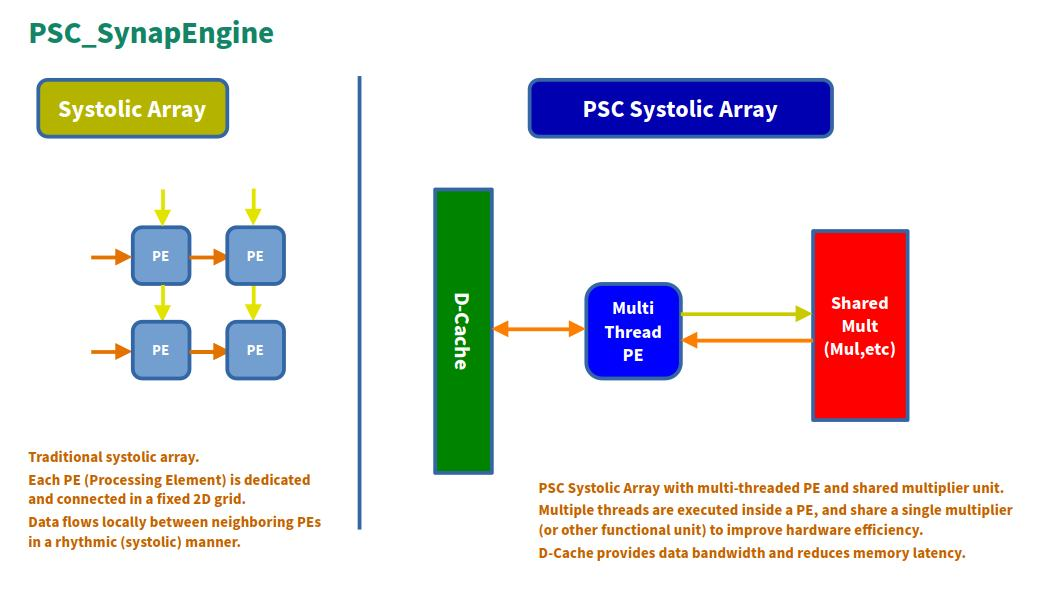
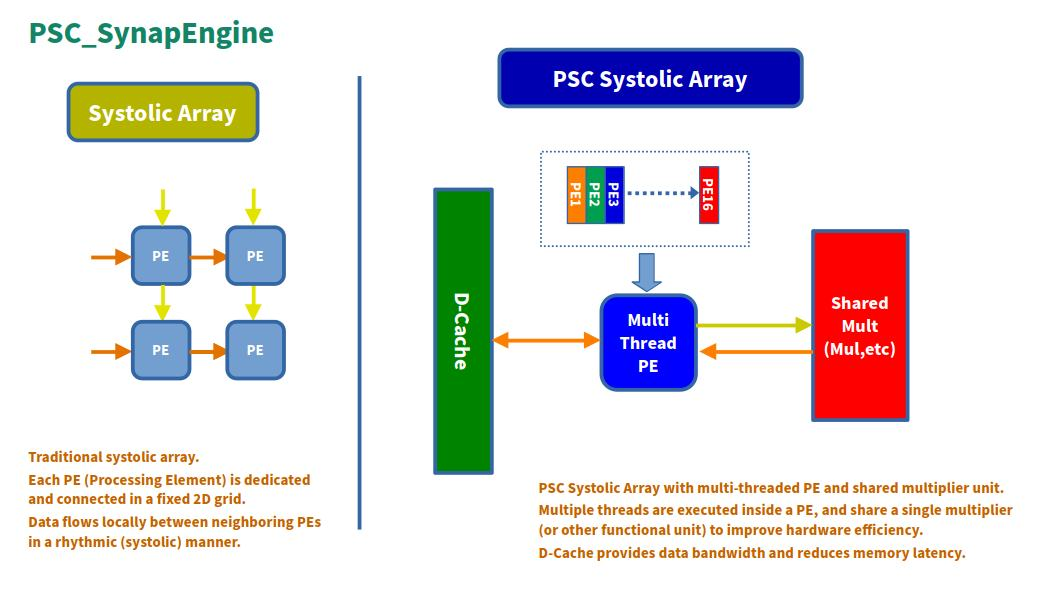
image modify README modify

diff --git a/README.md b/README.md
@@ -4,7 +4,7 @@
   </a>
 </p>
 
-# PSC-ONE
+# PSC-ONE SoC
 
 An open-source full-stack RISC-V SoC platform for FPGA-based edge computing and AI acceleration.  
 PSC-ONE integrates a custom CPU, memory subsystem, peripherals,
@@ -45,6 +45,15 @@ PSC-ONE is not just a CPU core, but a complete experimental SoC platform for res
 
 ---
 
+## PSC-ONE SoC Architecture
+
+![PSC-SOC Block Diagram](docs/images/PSC_ONE_SoC_Block.jpg)
+
+This section presents the overall PSC-ONE SoC architecture, including the
+PSC_RV32ISP CPU, memory subsystem, peripherals, PSC-OS, and PSC-ONE AI.
+
+---
+
 ## Repository Structure
 
 - `hardware/` - FPGA RTL design, including the CPU core, memory subsystem, and peripherals
@@ -75,7 +84,9 @@ The software side of PSC-ONE currently includes:
 
 ---
 
-## PSC_RV32ISP (CPU Architecture)
+# CPU (PSC_RV32ISP)
+
+## CPU Architecture
 
 This diagram presents the top-level architecture of the PSC system.  
 It shows how the PSC_RV32ISP CPU core is integrated with memory and peripheral components, including UART, SDRAM, and the SD card interface.  
@@ -92,7 +103,7 @@ cache/memory subsystem, reducing redundant memory copies.
   
 This tightly coupled architecture improves overall efficiency by reducing memory access overhead and is particularly suitable for data-intensive workloads such as matrix operations and future neural-network inference.
 
-![PSC_RV32ISP Block Diagram](docs/images/PSC_ONE_DMA_Block.jpg)
+![PSC_RV32ISP Block Diagram](docs/images/PSC_RV32ISP.jpg)
 
 ---
 